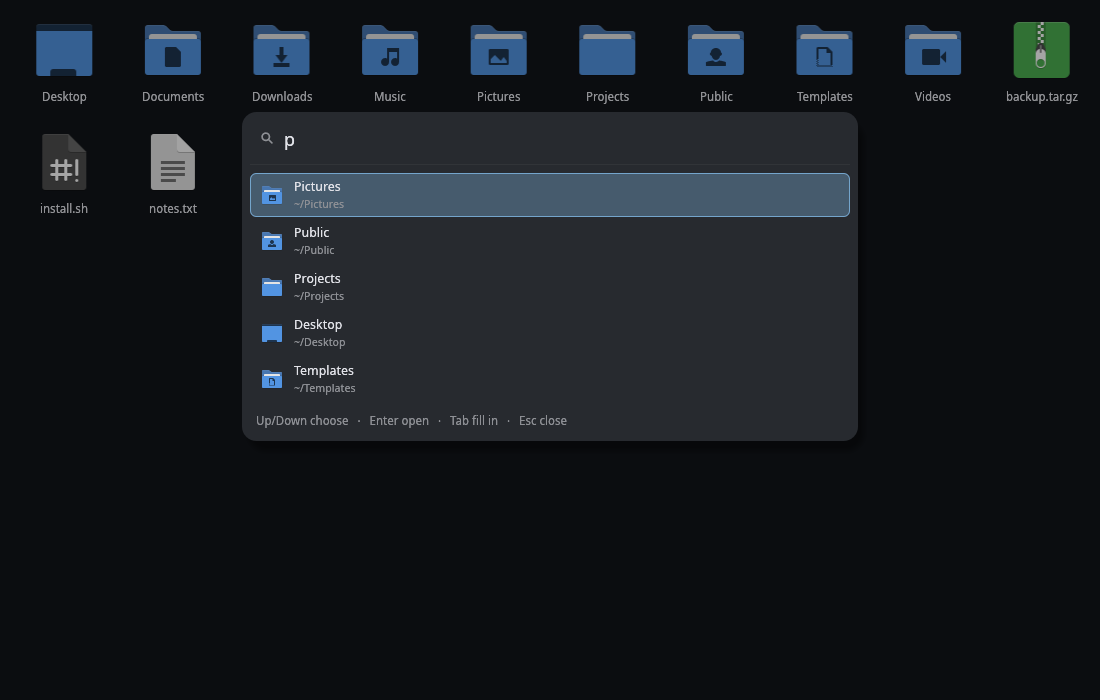
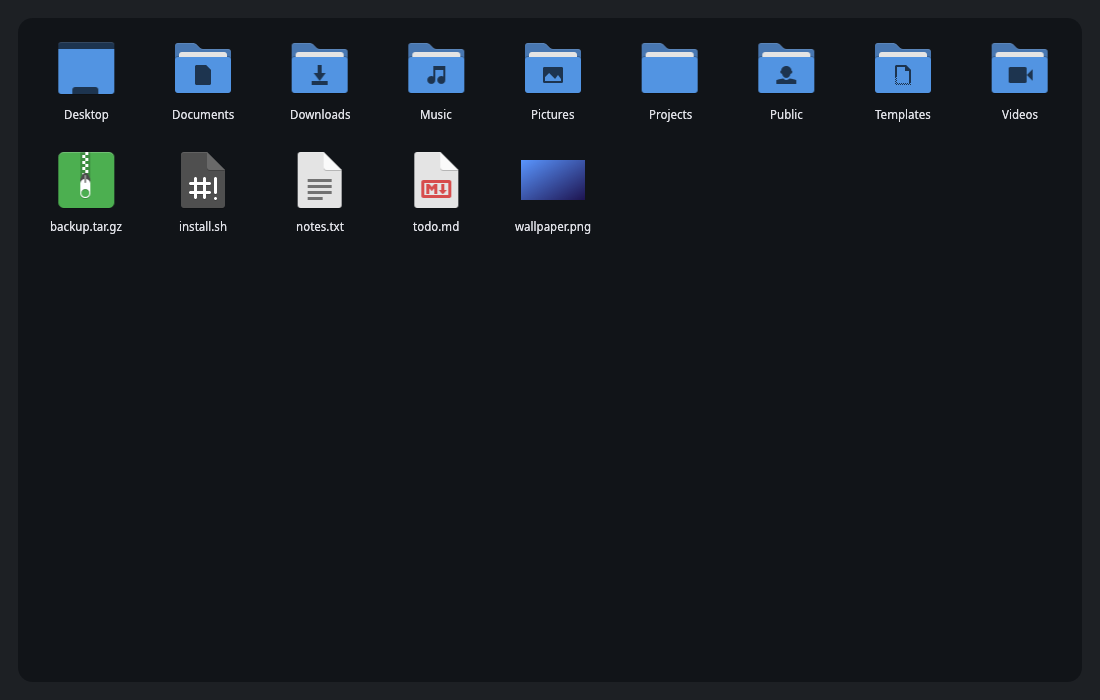
Zen mode: border round the files, wider reveal zones
The files sit on a rounded card with an 18 px empty border in Zen mode, and
that whole border (plus 2 px) slides the hidden bars in, so reaching for an
edge never lands on a file.

diff --git a/src/app/views.rs b/src/app/views.rs
@@ -24,11 +24,14 @@ impl RivetApp {
         let right_panel = (self.s.show_sidebar && self.s.sidebar_right) || (self.s.show_peek && !self.s.peek_left);
         let r = if right_panel { R_LG } else { 0 };
         let mut corner = egui::CornerRadius { nw: R_LG, ne: r, sw: if round_bottom { R_LG } else { 0 }, se: if round_bottom { r } else { 0 } };
-        // Zen mode: the files fill the window edge to edge.
+        // Zen mode: the files sit on one rounded card with an empty border all round, which is
+        // where the pointer goes to slide the hidden bars in.
+        let mut outer = egui::Frame::NONE.fill(chrome);
         if self.s.zen {
-            corner = egui::CornerRadius { nw: if self.s.decorations { 0 } else { R_LG }, ne: if self.s.decorations { 0 } else { R_LG }, sw: 0, se: 0 };
+            corner = egui::CornerRadius::same(R_LG);
+            outer = outer.inner_margin(egui::Margin::same(super::zen::ZEN_GUTTER));
         }
-        let central = egui::CentralPanel::no_frame().frame(egui::Frame::NONE.fill(chrome)).show(ui, |ui| {
+        let central = egui::CentralPanel::no_frame().frame(outer).show(ui, |ui| {
             egui::Frame::NONE.fill(bg).corner_radius(corner).inner_margin(egui::Margin { left: 6, top: 6, right: 0, bottom: 4 }).show(ui, |ui| {
             ui.set_min_size(ui.available_size());
             // Keyboard: the whole file list is one Tab stop (files themselves aren't), and while

diff --git a/src/app/zen.rs b/src/app/zen.rs
@@ -11,7 +11,9 @@ use crate::model::Location;
 use crate::places;
 
 /// How close to an edge (in points) the pointer must come to slide a panel in.
-const EDGE: f32 = 6.0;
+const EDGE: f32 = ZEN_GUTTER as f32 + 2.0;
+/// The empty border round the files in Zen mode: the files never sit under the reveal zones.
+pub(super) const ZEN_GUTTER: i8 = 18;
 /// Gap between a slid-in panel and the window edge.
 const GAP: f32 = 8.0;
 /// How far the pointer may stray outside a slid-in panel before it slides away.
